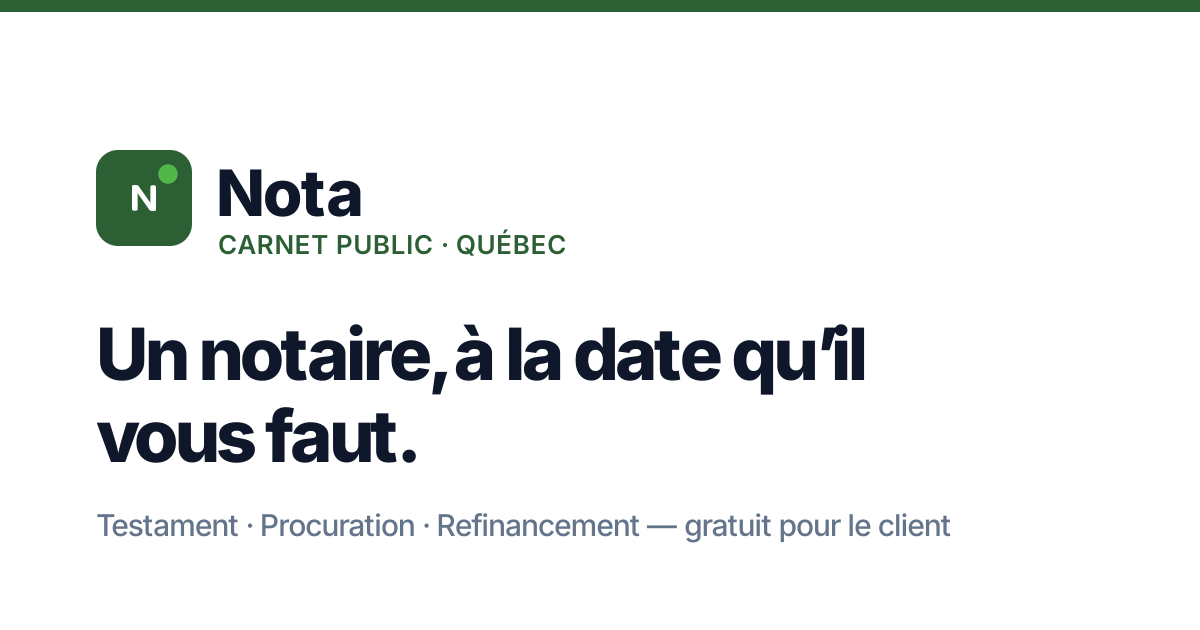
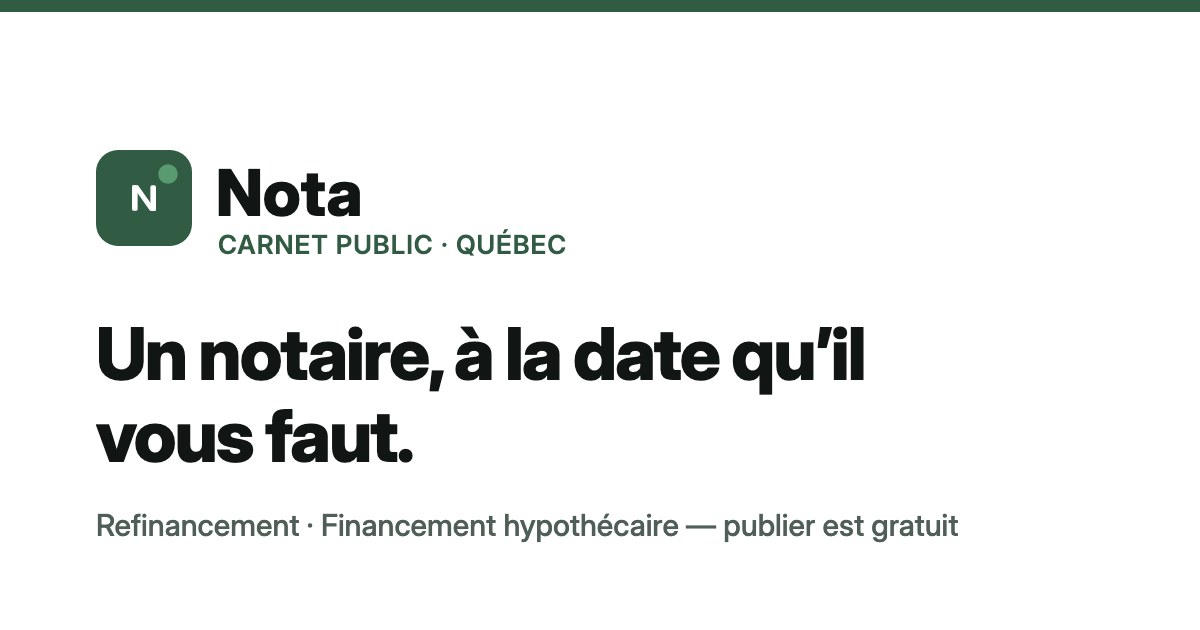
fix(api+web): deux affirmations fausses en production — la liste de pièces du courriel de rétention, et l'image sociale
Trouvées par la revue contradictoire de f45a2e1 (six lentilles, chaque
trouvaille soumise à un sceptique chargé de la réfuter). Les deux étaient
DÉJÀ en production.

1. LE COURRIEL DE RÉTENTION RÉCLAMAIT DES PIÈCES INDEMANDABLES.
   f45a2e1 a introduit les prédicats `si` du catalogue : une pièce ne
   s'applique que si les réponses du client la rendent pertinente. Les six
   portes de handler.js ont reçu le 3e argument `pricing` ; notifications.js
   ne l'a pas eu. Or `documentApplies` répond vrai dès que `pricing == null` —
   le courriel retombait donc sur la liste COMPLÈTE.
   Conséquence, au moment exact de la mise en relation : le notaire lisait
   « Dossier incomplet — il manque : … Testament et déclaration de
   transmission » pour un client ayant répondu `succession: 'non'`. Comme
   `succession` est un critère REQUIS dont c'est la valeur par défaut, le cas
   était la règle. Et la boîte « Demander des documents » de sa console filtre
   sur `requestable` : il ne pouvait littéralement pas demander ce que le
   courriel lui ordonnait d'aller chercher. Un cul-de-sac, sur le premier
   message qu'il reçoit.
   Correctif : un argument. Test neuf, vérifié ROUGE sans le correctif et VERT
   avec — le dossier y est volontairement sans consentement de partage, seule
   façon de rendre la liste « il manque … ».

2. L'IMAGE SOCIALE VENDAIT DEUX SERVICES RETIRÉS ET UNE GRATUITÉ RÉTRACTÉE.
   og.png datait du 12 août et annonçait « Testament · Procuration ·
[…]

diff --git a/apps/api/src/notifications.js b/apps/api/src/notifications.js
@@ -426,7 +426,14 @@ function createNotifier({ repo, mailer, baseUrl, apiBaseUrl, operatorEmail, now,
         );
       }
       if (profile && profile.email) {
-        const r = domain.leadReadiness(bid.serviceId, bid.dossier || {});
+        // Le 3e argument n'est pas décoratif : sans lui, `documentApplies`
+        // laisse passer TOUTE pièce (pricing == null ⇒ vrai) et le courriel
+        // réclame au notaire des documents que ses propres réponses ont
+        // écartés — et que la boîte « Demander des documents » de sa console,
+        // qui filtre sur `requestable`, refuse ensuite de lui laisser demander.
+        // Les six portes de handler.js passent déjà `pricing` ; celle-ci avait
+        // été oubliée (revue du 2026-09-04).
+        const r = domain.leadReadiness(bid.serviceId, bid.dossier || {}, bid.pricing);
         const facts = demandeFacts(bid);
         const ctx = bidCtx(bid, {
           email: bid.courriel || null,
